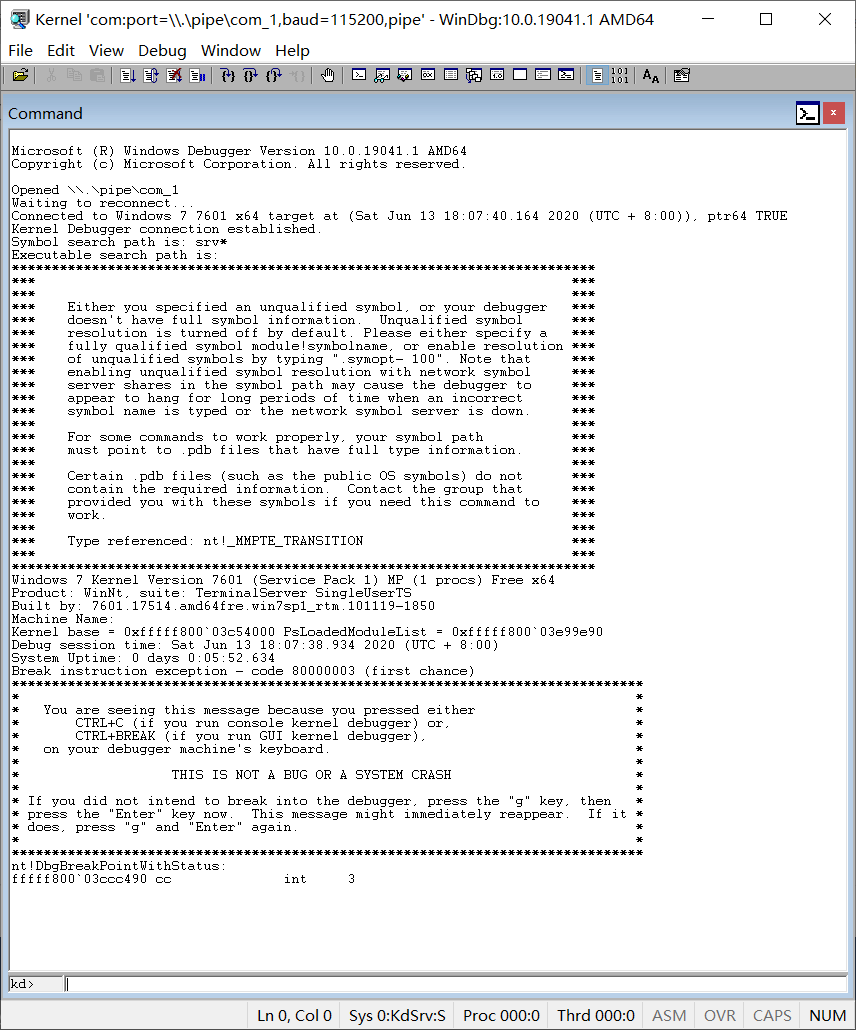
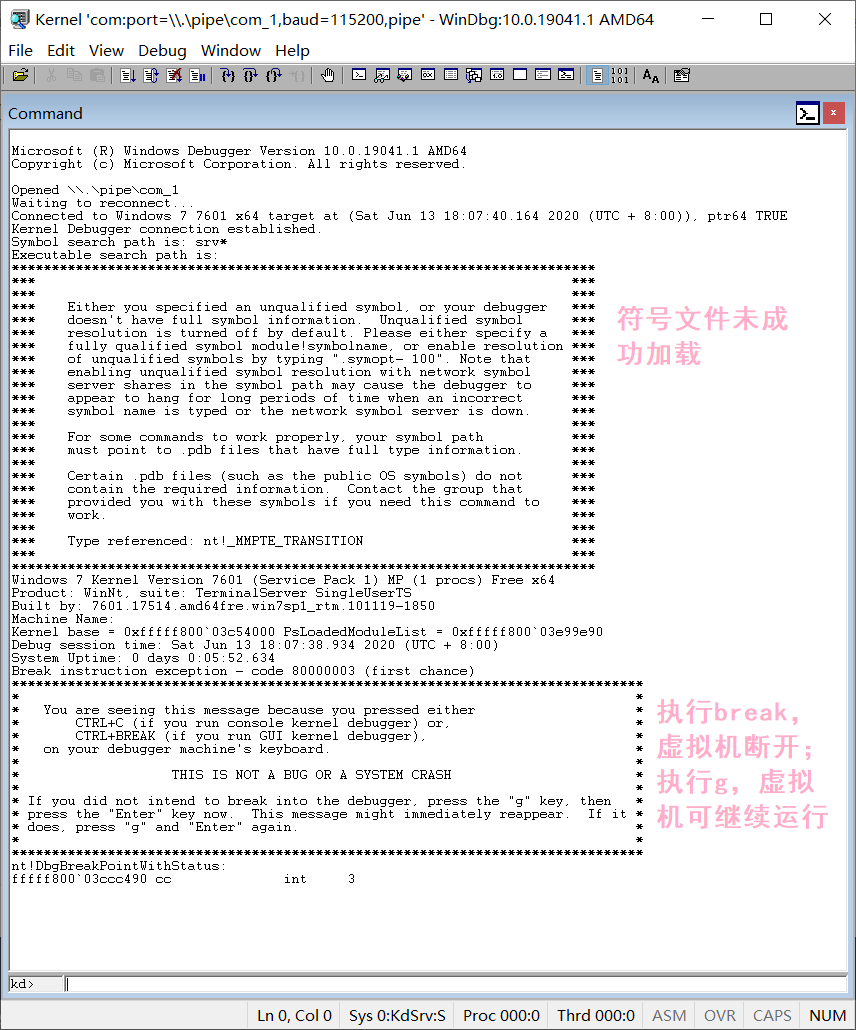
chap0x05 step details

Changed region(s): [[0.7593, 0.6835, 0.972, 0.8078], [0.729, 0.2796, 0.9112, 0.3728]]

diff --git a/hw-0x05-Memory Management (Hard version)/README.md b/hw-0x05-Memory Management (Hard version)/README.md
@@ -35,8 +35,8 @@
 
   <img src="./img/memory2.png">
 
-  - 两个程序使用了相同的内存地址
-  - 同时运行却能使用相同的地址，是因为使用的是虚拟地址，映射于不同的物理地址
+
+总结：两个程序使用了相同的内存地址；同时运行却能使用相同的地址，是因为使用的是虚拟地址，映射于不同的物理地址
 
 #### 使用VirtualAlloc分配一块相同地址的内存，写入不同的数据再读出
 
@@ -142,11 +142,11 @@ int main() {
 
 ##### Guest端配置
 
-- 为了让Windos支持内核调试，需要配置启动参数。首先需要对虚拟机配置虚拟串口，目的是为了建立host到guest的调试通信连接。如下图所示，选择com1并且映射成为\\.pip\com_1
+- 为了让Windos支持内核调试，需要配置启动参数。首先需要对虚拟机配置虚拟串口，目的是为了建立host到guest的调试通信连接。如下图所示，选择`com1`并且映射成为`\\.pip\com_1`
   
   <img src="./img/com-config.png">
 
-  - 注意不要选择 连接至现有通道或套接字 因为目前还没有建立管道。否则启动虚拟机时会报错误`不能为虚拟电脑打开一个新任务`
+  - 注意不要选择 连接至现有通道或套接字：因为目前还没有建立管道，否则启动虚拟机时会报错误`不能为虚拟电脑打开一个新任务`
 - 启动虚拟机，进入Window内部进行配置。以管理员身份启动CMD，输入以下命令
   
   <img src="./img/bcdedit.png">
@@ -194,7 +194,7 @@ int main() {
 
       <img src="./img/connectsuccess.png">  
 
-    - 提示如果要让虚拟机继续，则输入`g`，虚拟机又可以使用了
+    - 如果要让虚拟机继续，则在windbg下输入`g`，虚拟机又可以使用了
     - 上面的报错是因为符号文件还没有加载
 
 - 配置windbg的符号下载地址：File > Symbol File Path 
@@ -222,14 +222,13 @@ int main() {
     
     <img src="./img/httpsendrequest.png">
 
-    - 无法访问网络
-
+    - 原因其中之一无法访问网络 - 微软符号服务器有时好有时坏
     - 最后的解决方法：https://blog.csdn.net/xiangbaohui/article/details/103832850
-    - 那么WINDBG为什么无法从官网下载符号表呢？主要是我们的WINDBG设置的不够科学，没有搭建梯子，需要我们自建梯子
-    - 根据自己的梯子，在命令行下输入
+      - WINDBG为什么无法从官网下载符号表呢？主要是我们的WINDBG设置的不够科学，没有搭建翻墙梯子，需要我们自建梯子
+      - 根据自己的梯子，在命令行下输入：若要选择用于 symsrv，若要使用的特定代理服务器，则设置IP的代理服务器后，跟冒号和端口号。 
         
         ```
-        # 可以在windows的自动代理设置下查看
+        # 可以在windows的自动代理设置下查看 - 在windows的搜索栏下搜索代理服务器设置
         set _NT_SYMBOL_PROXY=127.0.0.1:1084
 
         # 然后再用该命令行打开windbg
@@ -243,15 +242,25 @@ int main() {
 
 #### x64 寻址简介
 
-在保护模式，CPU发出的线性地址，内存管理单元(MMU)，根据当前CR3寄存器所指向的页表物理地址将该线性地址翻译成物理地址进行内存访问，该过程称为地址翻译。在x64体系结构中，线性地址的结构如图
+在保护模式，CPU发出的线性地址，内存管理单元(MMU)，根据当前CR3寄存器所指向的页表物理地址将该线性地址翻译成物理地址进行内存访问，该过程称为地址翻译
+
+在x64体系结构中，线性地址的结构如图：
 
 <img src="./img/64-virtualaddress.png"> 
 
 主要讨论的是4K页面大小的寻址方式，因为在个人计算机上，普遍都是4K；页面寻址，其他的方式也主要就是页面大小的差异。
 
-4K页面： 使用PML4T，PDPT，PDT和PT 四级页转化表结构；
+4K页面： 使用PML4T(Page Map Level4选择子)，PDPT(Page Directory Pointer选择子)，PDT和PT四级页转化表结构；
 
-##### 使用WinDbg查看保护模式分页机制下的物理地址
+对下级表的物理地址的存储4K页面寻址遵循如下规则：
+
+① 当MAXPHYADDR为52位时，上一级table entry的12 ~ 51位提供下一级table物理基地址的高40位，低12位补零，达到基地址在4K边界对齐；
+
+② 当MAXPHYADDR为40位时，上一级table entry的12 ~ 39位提供下一级table物理基地址的高28位，此时40~51是保留位，必须置0，低12位补零，达到基地址在4K边界对齐；
+
+③ 当MAXPHYADDR为36位时，上一级table entry的12 ~ 35位提供下一级table物理基地址的高24位，此时36~51是保留位，必须置0，低12位补零，达到基地址在4K边界对齐。
+
+##### 使用WinDbg查看保护模式分页机制下的物理地址 - 根据虚拟地址通过分页机制找到物理地址
 
 - 在windbg的debug下选择Go
 - 在虚拟机中打开notepad.exe，并且写入helloworld
@@ -263,39 +272,92 @@ int main() {
   
   <img src="./img/notepadprocess.png">
 
-  - 记事本进程的进程块起始地址为fffffa8002d0a060
-- 当前是在系统进程断下，所以此时我们要切换到记事本的进程。使用.process -i fffffa8002d0a060(进程块地址)命令，在输入 g 命令将WinDbg当前调试进程切换到notepad.exe，然后我们使用s -u命令再记事本进程中搜索 helloworld 这个字符串`s -u 0x00000000 L0x01000000 "helloworld"`
+  - 记事本进程的进程块起始地址为`fffffa8002d0a060`
+  - 记事本进程的页表基址(DirBase)是`7652b000`
+- 当前是在系统进程断下，所以此时我们要切换到记事本的进程
+  - 使用`.process -i fffffa8002d0a060`(进程块地址)命令
+  - 再输入 g 命令将WinDbg当前调试进程切换到notepad.exe
+  - 然后在记事本进程中搜索 helloworld 这个字符串：`s -u 0x00000000 L0x01000000 "helloworld"`
   
-  <img src="./img/findhelloworld.png">
+    <img src="./img/findhelloworld.png">
 
-    - virtualaddress：000000000026e7b0
+    - 发现字符串所在的虚拟地位为 `virtualaddress：000000000026e7b0`
+    - 使用format命令转化为二进制：  
 
         <img src="./img/format.png">
+
+        <img src="./img/x64virtualaddress.png">
+
+        > PML4T(Page Map Level4 Table)及表内的PML4E结构，每个表为4K，内含512个PML4E结构，每个8字节
+        > PDPT(Page Directory Pointer Table)及表内的PDPTE结构，每个表4K，内含512个PDPTE结构，每个8字节
+        > PDT(Page Directory Table)及表内的PDE结构，每个表4K，内含512个PDE结构，每个8字节
+        > PT(Page Table)及表内额PTE结构，每个表4K，内含512个PTE结构，每个8字节
+        > 每个table entry 的结构都是8个字节64位宽，而virtual address中每个索引值都是9位，因此每个table都是512x8= 4K字节
         
-    - 转化为二进制：  
-    
-         0000 0000 0 | 000 0000 00 | 00 0000 001 | 0 0110 1110 | 0111 1011 0000
+        | PML4E(9位) | PDPTE(9位) | PDE(9位) | PTE(9位) | 页内偏移(12位) |
+        | --- | --- | --- | --- | --- |
+        | 0000 0000 0 | 000 0000 00 | 00 0000 001 | 0 0110 1110 | 0111 1011 0000 |
 
-- 目标进程的DirBase页表基址是`7652b000`
-  
-  <img src="./img/ptevirtualaddress.png">
+- 通过`!process 0 0`得知记事本页表基址(DirBase)是`7652b000`
+  - d*命令显示给定范围内存的内容，dq:四字值(Quad-word values) (8 bytes)。默认显示数量为16个四字 (128 = 4 X 32 字节)
 
-- 因为PML4E的索引为0，所以我们的目标PML4E项的值为0x3bf000007606e867，12~35位为0x07606e，低12位补零，则
-  
-  <img src="./img/pml4e.png">
+    <img src="./img/pml4e.png">
 
-- PDPTE的索引也为0，目标PDPTE项的值为 0x47b00000`76335867，PS位(第7位)为0，12~35位为 0x 076335 ，低12位补零，则：
+- 因为PML4E的索引为0(查看 `0000 0000 0`)，所以我们的目标PML4E项的值为`0x3bf000007606e867`，12~35位为`0x07606e`，低12位补零，得`0x7606e000`
+
+  <img src="./img/PML4E-structure.png">
   
+  | PML4E(9位) | 35~12 | 11~0 |
+  | ---- | ----- | ---- |
+  | 0000 0000 0| 07606e | 867 -> 000 |
+
   <img src="./img/pdpte.png">
 
-- 因为PDE的索引为1，所以我们要加上8，目标PDE项的值为 ：05000000`75cc8867，PS位(第7位)为0，12~35位为 0x75cc8，低12位补零，则：
+- PDPTE的索引也为0，目标PDPTE项的值为 0x47b00000`76335867，PS位(第7位)为0，12~35位为 0x076335 ，低12位补零，得0x76335000
+
+  <img src="./img/pdpte-ps.png">
+
+  当PDPTE.PS=1，也就是PDPTE的第7位为1时，PDPTE将提供1G的物理页面地址；当PDPTE.PS=0，也就是PDPTE的第7位为0时，使用非1G的页面，将提供下一级的PDT的物理基地址，同样受MAXPHYADDR规则的约束
+
+  1G页面下的PDPTE 的结构解析如下：
+
+  <img src="./img/pdpte-structure.png">
+
+  4K和2M页面下的PDPTE结构解析如下：
+
+  <img src="./img/pdpte-structure1.png">
   
+  | PDPTE(9位) | 35~12 | 11~0 |
+  | ---------- | ----- | ---- |
+  | 000 0000 00 | 0x76335 | 867 -> 000 |
+
+- 因为PDE的索引为1，所以我们要加上8，目标PDE项的值为 ：05000000`75cc8867
+  
+  PDE的结构和PDPTE类似，也是用PS(第7位)表示是使用2M（PS=1）的页面还是4K 的页面，下面是4K 页面的PDE结构解析：
+
+  <img src="./img/pde-structure.png">
+
+  | PDE(9位) | 
+  | --- |
+  | 00 0000 001 | 
+
   <img src="./img/pde.png">
 
-- PTE的索引为0x6e，所以要加上0x6e*8,得到目标PTE项的值为：cab00000`75c12867
-- 12~35位为 0x075c12，低12补零，得到页面物理基地址，再加上页面偏移，我们是0x7b0,则：
+- 由PDE的PS位(第7位)为0，12~35位为 0x75cc8，低12位补零，得`0x75cc8000`，又因为PTE的索引为0x6e，所以要加上0x6e*8，得到目标PTE项的值为：cab00000`75c12867
   
-  <img src="./img/pte+bia.png">
+  | PTE(9位) |
+  | --- |
+  | 0 0110(6) 1110(e) |
+  
+  <img src="./img/pte.png">
+
+  PTE的结构解析：
+
+  <img src="./img/pte-structure.png">
+
+- 由PTE项的值为`cab00000`75c12867，则12~35位为 0x075c12，低12补零，得到页面物理基地址`0x75c12000`，再加上页面偏移，我们是0x7b0,则：
+
+  <img src="./img/bia.png">
 
 ##### Windbg如何在内核调试情况下看物理内存，也就是通过物理地址访问内存
 
@@ -307,7 +369,7 @@ int main() {
 
 虚拟地址通过pte指令，找到pfn(页帧号，页帧有唯一的物理地址，将该地址 x/1000h，所产生的一个唯一的编号)
 
-找到pte对应的pfn为75c12，单位是4k（4096）
+找到pte对应的pfn为`75c12`，单位是4k（4096）
 
 <img src="./img/findpfn.png">
 
@@ -317,28 +379,65 @@ pfn为0x75c12，则物理页地址是0x75c12000（0x75c12 × 0x1000）
 
 页内偏移是7b0 
 
-物理地址=**物理页地址**+**页内偏移** = 0x75c12000+0x9e0 = 0x75c127b0
+物理地址=**物理页地址**+**页内偏移** = 0x75c12000+0x7b0 = 0x75c127b0
 
 <img src="./img/physicalandvirtualaddress.png">
 
+在windbg中，指令前加!代表物理内存，不加代表虚拟内存；物理地址前面有#
+
 ##### 分页内存和非分页内存
+
+Windows NT把内核模式地址空间分成分页内存池和非分页内存池。(用户模式地址空间总是分页的) **必须驻留**的代码和数据放在非分页池；**不必常驻**的代码和数据放在分页池中。非分页内容的空间是很小的，所以一般的东西都会放入分页内存中。
+
+nt!MmNonPagedStart 保存基本NonPagedd内存池的开始地址
+
+<img src="./img/pagedandnotpaged.png">
 
 ##### 内核调试案例
 
+###### 查看SSDT
+
+SSDT全称System Service Descriptor Table (SSDT)，是Windows内核对外提供服务的索引表，在ring3层的Windows API调用都会映射到SSDT中的项目里
+
+使用 `x nt!kes*des*table*`命令查看系统中 KeServiceDescriptorTable变量的地址；获得地址后使用``` dd fffff800`03f16840 ``` 查看这个变量的内容；最后使用 ```dds fffff800`03ce6300 L191 ``` 查看SSDT表
+
+**前提需要加载好符号**
+
+<img src="./img/SSDT.png">
+
+###### 查看单个进程的信息
+
+在process命令显示出的地址指向了每个进程的描述数据结构
+
+使用 !process 0 0 找到notepad进程的指针，然后使用dt命令查看进程信息
+
+<img src="./img/notepadprocessinfo.png">
+
+比较重要的是PEB,这里显示的地址就是用户空间的进程信息指针
+>+0x338 Peb              : 0x000007ff`fffdf000 _PEB
+
+使用.process fffffa8002ff17d0
+ 设置当前notepad进程。然后使用```!peb 0x000007ff`fffdf000``` 或者 ```dt _PEB 0x000007ff`fffdf0000```查看进程信息
+
+<img src="./img/pebinfo.png">
+
 ## Conclusion
 
-### 虚拟内存
+内存泄漏：也称作“存储渗漏”，用动态存储分配函数动态开辟的空间，在使用完毕后未释放，结果导致一直占据该内存单元，直到程序结束
+
+Windows操作系统中出现的内存泄露主要是指用户态进程或者内核态驱动一直申请内存不释放，导致操作系统内存池耗尽（分页内存池和非分页内存池）
 
 ## References
 
+- [X64 操作系统内存寻址](https://blog.csdn.net/LOVE_JFJ/article/details/75385536?utm_source=blogxgwz0)
 - [windbg由虚拟地址查找对应物理地址（内核调试）](https://blog.csdn.net/wesley2005/article/details/81303435)
 - [参考资料](https://www.cnblogs.com/lanrenxinxin/p/4735027.html)
 - [虚拟地址空间](https://docs.microsoft.com/zh-cn/windows-hardware/drivers/gettingstarted/virtual-address-spaces)
-- https://www.cnblogs.com/ck1020/p/6148399.html
-- https://blog.csdn.net/lixiangminghate/article/details/54667694
-- https://blog.csdn.net/weixin_42486644/article/details/80747462
-- https://www.jianshu.com/p/09fab7c07533
-- https://zhuanlan.zhihu.com/p/47771088
-- https://docs.microsoft.com/en-us/windows-hardware/drivers/debugger/-pte
-- https://reverseengineering.stackexchange.com/questions/21031/windbg-what-is-the-relation-between-the-vad-vad-the-ptes-pte-and-loade
-- https://stackoverflow.com/questions/16749764/when-kernel-debugging-find-the-page-protection-of-a-user-mode-address
+- [win7 32位虚拟机 windbg遍历进程页表查看内存](https://www.cnblogs.com/ck1020/p/6148399.html)
+- [xpsp3 windbg下看系统非分页内存](https://blog.csdn.net/lixiangminghate/article/details/54667694)
+- [Win7 x86 sp1 使用WinDbg查看保护模式分页机制下的物理地址](https://blog.csdn.net/weixin_42486644/article/details/80747462)
+- [软件安全4.内存布局](https://www.jianshu.com/p/09fab7c07533)
+- [Windows 内核调试](https://zhuanlan.zhihu.com/p/47771088)
+- [!pte](https://docs.microsoft.com/en-us/windows-hardware/drivers/debugger/-pte)
+- [windbg - What is the relation between the VAD (!vad), the PTEs (!pte), and loaded modules and sections (lm and !dh)?](https://reverseengineering.stackexchange.com/questions/21031/windbg-what-is-the-relation-between-the-vad-vad-the-ptes-pte-and-loade)
+- [When Kernel Debugging - Find The Page Protection of a User Mode Address](https://stackoverflow.com/questions/16749764/when-kernel-debugging-find-the-page-protection-of-a-user-mode-address)
